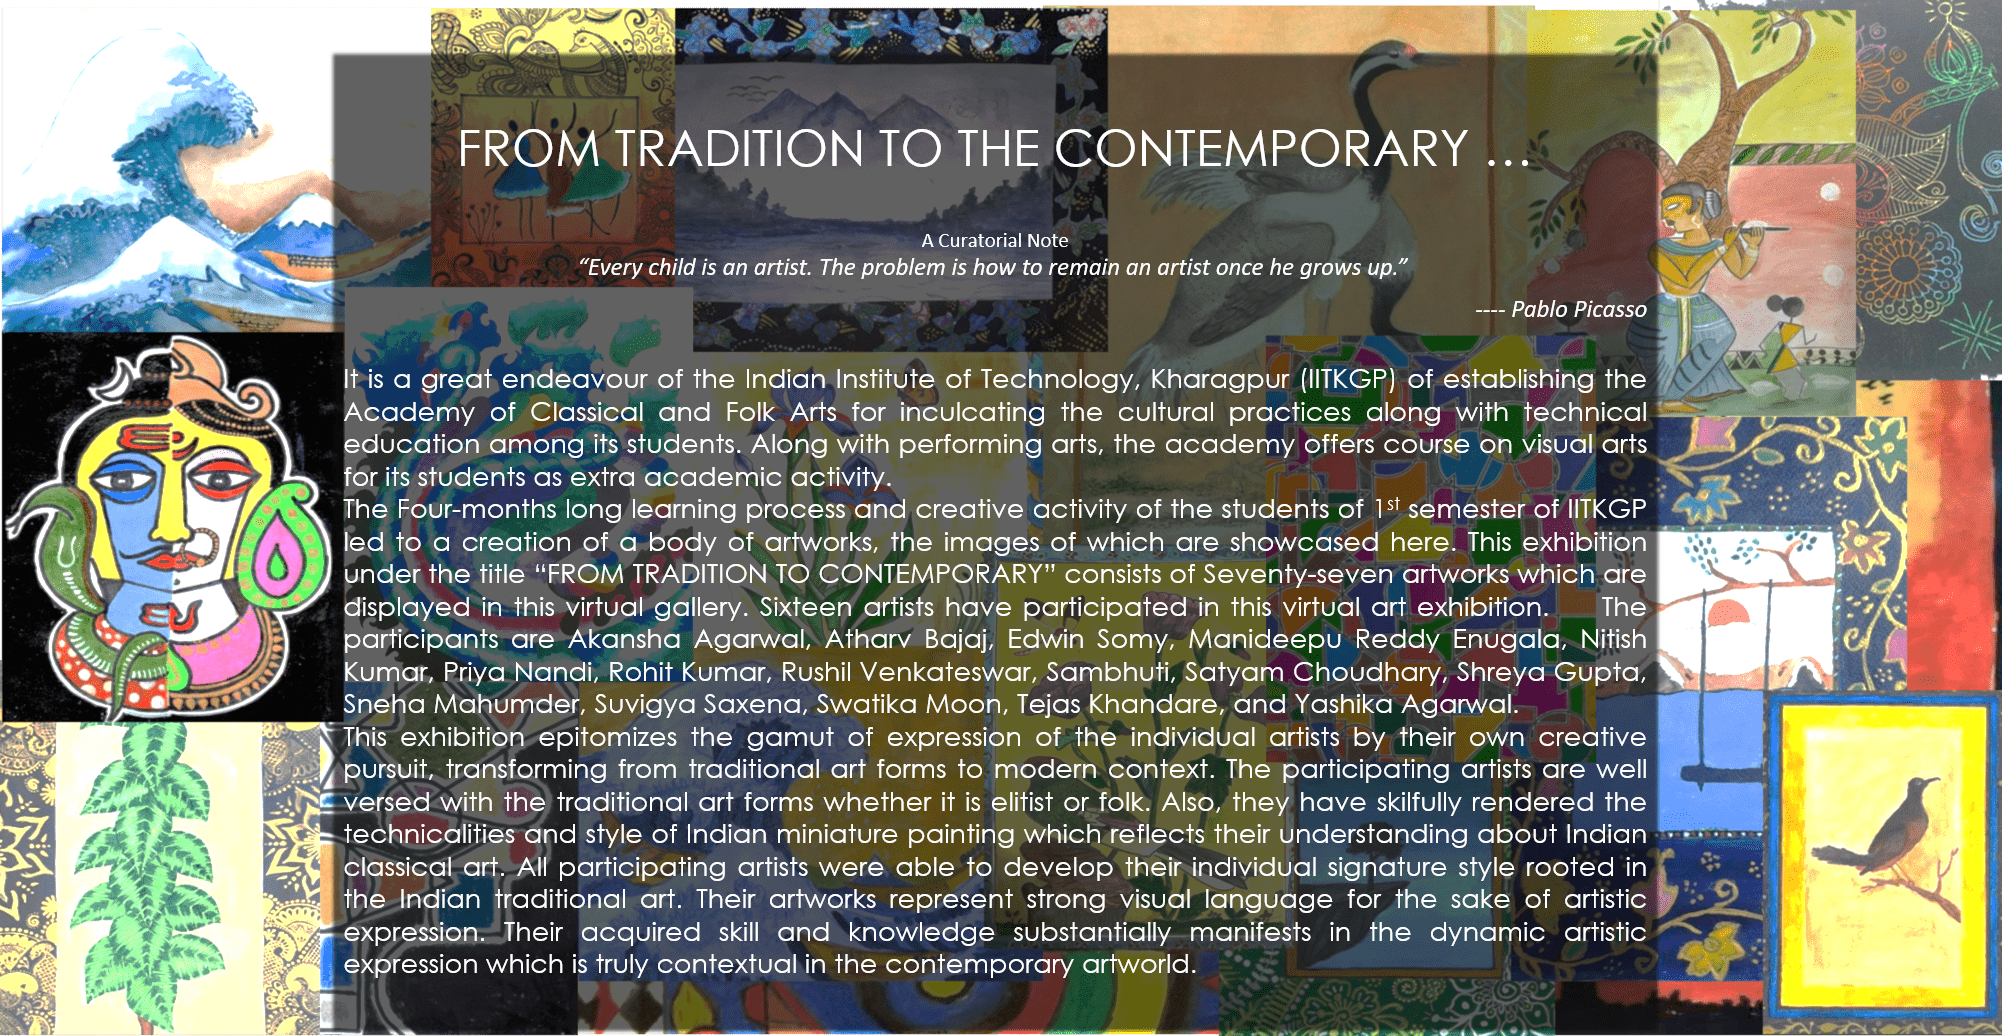
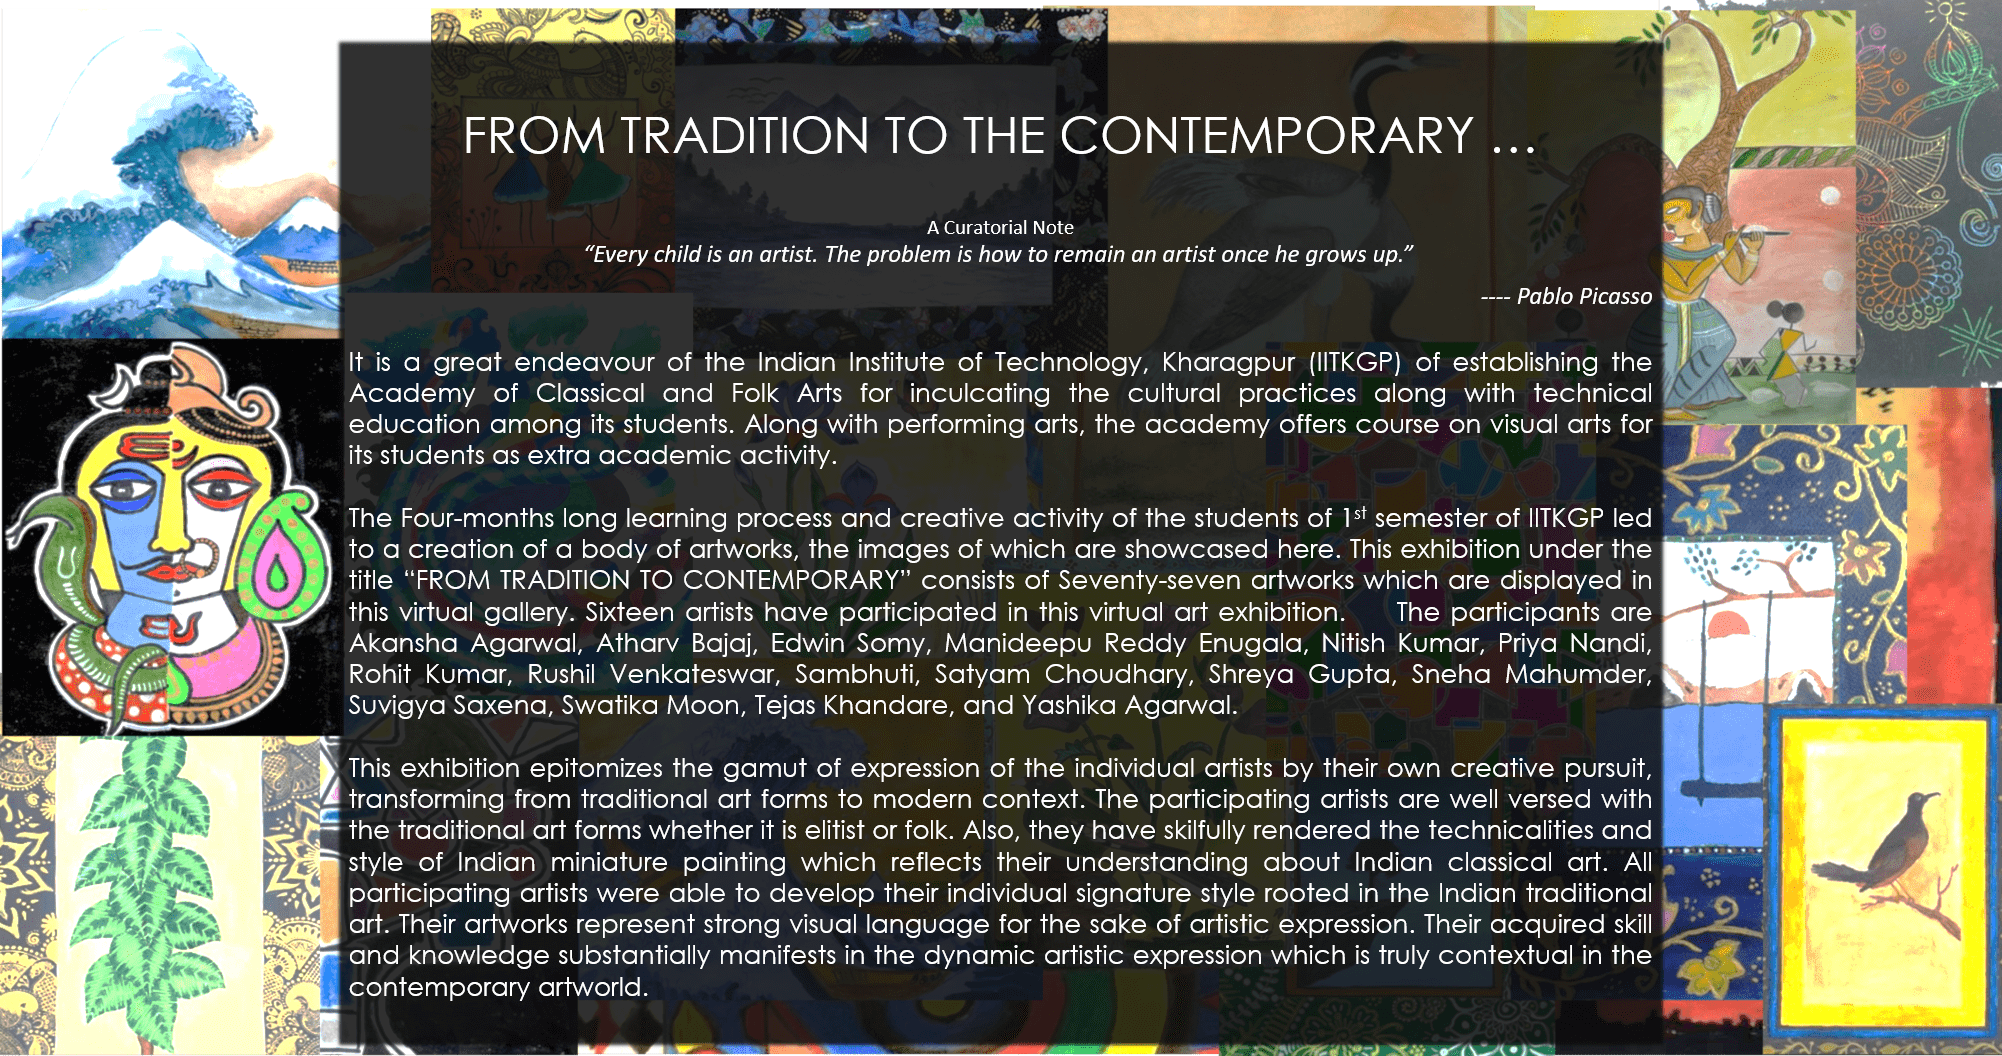
cmit10

diff --git a/index.html b/index.html
@@ -175,7 +175,7 @@
 </head>
 
 <body data-spy="scroll" data-target="#navbar" style="background-color: rgb(255, 255, 255);">
-  <img class="bgm" src="images/bgm2.jpg">
+  <img class="bgm" src="images/bgm2.png">
 
 
   <nav class="navbar navbar-expand-lg navbar-light bg-light fixed-top" id="navbar">

diff --git a/styles.css b/styles.css
@@ -252,6 +252,7 @@ img.box-img{
     .bgm{
       display: block;
       width: 100%;
+      height: auto;
     }
     .h2{
       font-size: 12px;
